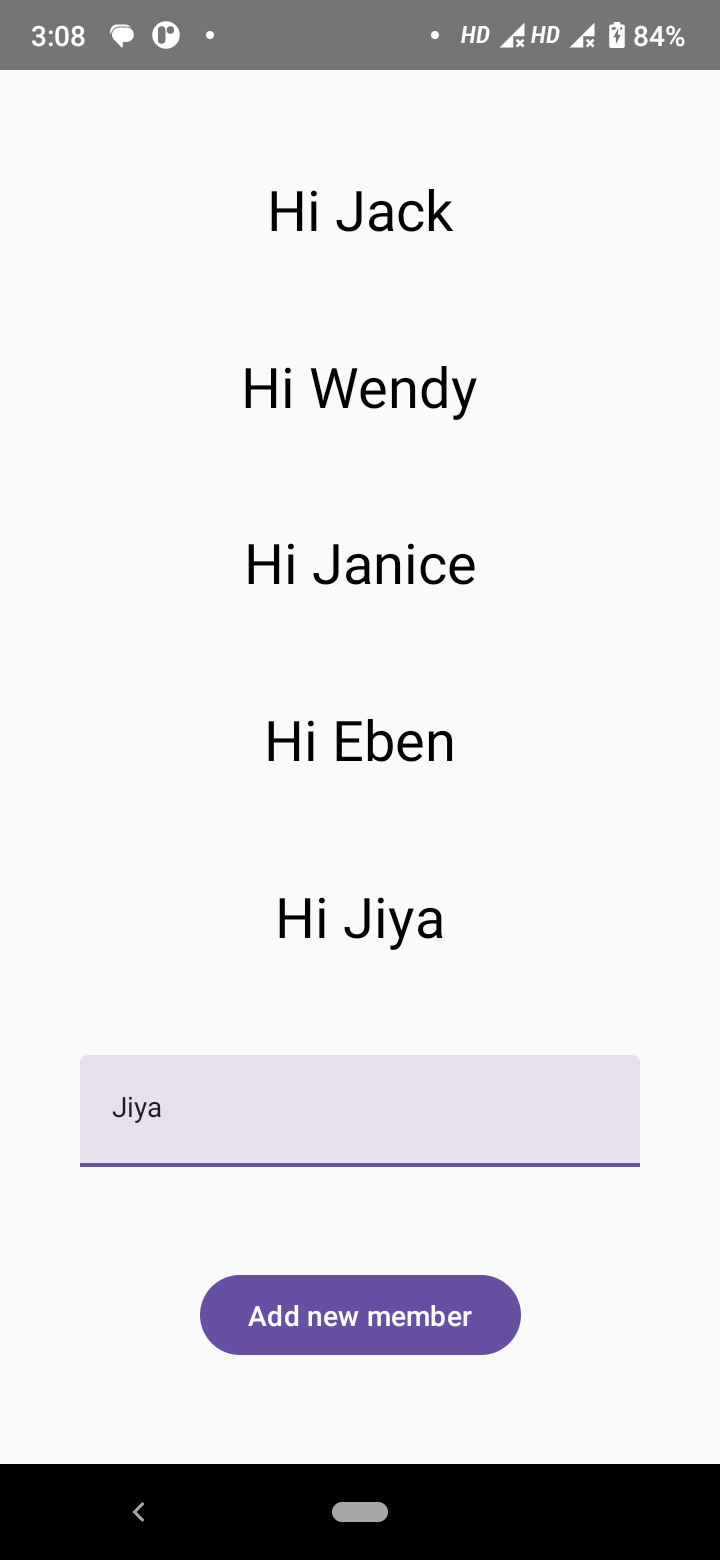
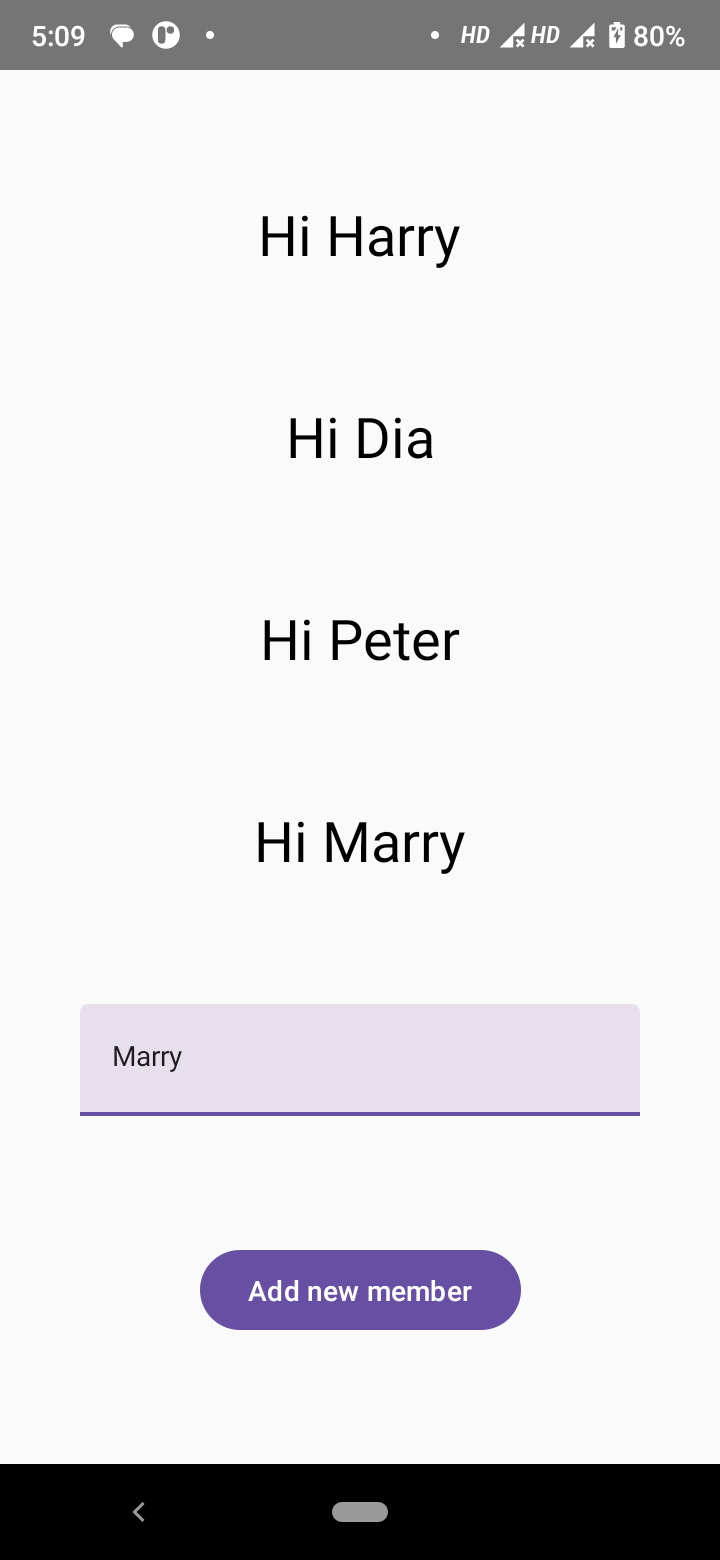
LazyColumn

diff --git a/JetpackComposeApplication/app/src/main/java/com/example/jetpackcomposeapplication/ProfileCardLayoutActivity.kt b/JetpackComposeApplication/app/src/main/java/com/example/jetpackcomposeapplication/ProfileCardLayoutActivity.kt
@@ -14,6 +14,8 @@ import androidx.compose.foundation.layout.fillMaxWidth
 import androidx.compose.foundation.layout.padding
 import androidx.compose.foundation.layout.size
 import androidx.compose.foundation.layout.wrapContentHeight
+import androidx.compose.foundation.lazy.LazyColumn
+import androidx.compose.foundation.lazy.items
 import androidx.compose.foundation.shape.CircleShape
 import androidx.compose.material.icons.Icons
 import androidx.compose.material.icons.filled.Home
@@ -57,12 +59,12 @@ class ProfileCardLayoutActivity : ComponentActivity() {
 fun ProfileCardScreen(userProfiles: List<UserProfile> = userProfileList) {
     Scaffold(topBar = { AppBar() }) { innerPadding ->
         Surface(
-                modifier = Modifier
-                        .fillMaxSize()
-                        .padding(innerPadding)
+            modifier = Modifier
+                .fillMaxSize()
+                .padding(innerPadding)
         ) {
-            Column {
-                for (userProfile in userProfiles) {
+            LazyColumn() {
+                items(userProfiles) { userProfile ->
                     ProfileCard(userProfile = userProfile)
                 }
             }
@@ -74,30 +76,30 @@ fun ProfileCardScreen(userProfiles: List<UserProfile> = userProfileList) {
 @Composable
 fun AppBar() {
     TopAppBar(
-            navigationIcon = {
-                Icon(Icons.Filled.Home, "Home Icon", Modifier.padding(horizontal = 12.dp))
-            },
-            title = { Text(text = "My Contacts") },
-            colors = TopAppBarDefaults.smallTopAppBarColors(containerColor = Color.Cyan)
+        navigationIcon = {
+            Icon(Icons.Filled.Home, "Home Icon", Modifier.padding(horizontal = 12.dp))
+        },
+        title = { Text(text = "My Contacts") },
+        colors = TopAppBarDefaults.smallTopAppBarColors(containerColor = Color.Cyan)
     )
 }
 
 @Composable
 fun ProfileCard(userProfile: UserProfile) {
     Card(
-            modifier = Modifier
-                    .padding(top = 8.dp, bottom = 4.dp, start = 16.dp, end = 16.dp)
-                    .fillMaxWidth()
-                    .wrapContentHeight(align = Alignment.Top)
-                    .shadow(elevation = 8.dp),
-            colors = CardDefaults.cardColors(
-                    containerColor = Color.White
-            )
+        modifier = Modifier
+            .padding(top = 8.dp, bottom = 4.dp, start = 16.dp, end = 16.dp)
+            .fillMaxWidth()
+            .wrapContentHeight(align = Alignment.Top)
+            .shadow(elevation = 8.dp),
+        colors = CardDefaults.cardColors(
+            containerColor = Color.White
+        )
     ) {
         Row(
-                modifier = Modifier.fillMaxWidth(),
-                verticalAlignment = Alignment.CenterVertically,
-                horizontalArrangement = Arrangement.Start
+            modifier = Modifier.fillMaxWidth(),
+            verticalAlignment = Alignment.CenterVertically,
+            horizontalArrangement = Arrangement.Start
         ) {
             ProfilePicture(userProfile.drawableId, userProfile.status)
             ProfileContent(userProfile.name, userProfile.status)
@@ -108,17 +110,20 @@ fun ProfileCard(userProfile: UserProfile) {
 @Composable
 fun ProfilePicture(drawableId: Int, onlineStatus: Boolean) {
     Card(
-            shape = CircleShape,
-            border = BorderStroke(width = 2.dp, color = if (onlineStatus) MaterialTheme.colorScheme.lightGreen else Color.Red),
-            modifier = Modifier
-                    .padding(16.dp)
-                    .shadow(elevation = 4.dp)
+        shape = CircleShape,
+        border = BorderStroke(
+            width = 2.dp,
+            color = if (onlineStatus) MaterialTheme.colorScheme.lightGreen else Color.Red
+        ),
+        modifier = Modifier
+            .padding(16.dp)
+            .shadow(elevation = 4.dp)
     ) {
         Image(
-                painter = painterResource(id = drawableId),
-                contentDescription = "Profile picture",
-                modifier = Modifier.size(80.dp),
-                contentScale = ContentScale.Crop
+            painter = painterResource(id = drawableId),
+            contentDescription = "Profile picture",
+            modifier = Modifier.size(80.dp),
+            contentScale = ContentScale.Crop
         )
     }
 }
@@ -126,19 +131,19 @@ fun ProfilePicture(drawableId: Int, onlineStatus: Boolean) {
 @Composable
 fun ProfileContent(userName: String, onlineStatus: Boolean) {
     Column(
-            modifier = Modifier
-                    .padding(8.dp)
-                    .fillMaxWidth()
+        modifier = Modifier
+            .padding(8.dp)
+            .fillMaxWidth()
     ) {
         Text(
-                text = userName,
-                style = MaterialTheme.typography.headlineSmall,
-                modifier = Modifier.alpha(if (!onlineStatus) 0.7f else 1f)
+            text = userName,
+            style = MaterialTheme.typography.headlineSmall,
+            modifier = Modifier.alpha(if (!onlineStatus) 0.7f else 1f)
         )
         Text(
-                text = if (onlineStatus) "Active Now" else "Offline",
-                style = MaterialTheme.typography.bodyMedium,
-                modifier = Modifier.alpha(0.7f)
+            text = if (onlineStatus) "Active Now" else "Offline",
+            style = MaterialTheme.typography.bodyMedium,
+            modifier = Modifier.alpha(0.7f)
         )
     }
 }

diff --git a/JetpackComposeApplication/app/src/main/java/com/example/jetpackcomposeapplication/UserProfile.kt b/JetpackComposeApplication/app/src/main/java/com/example/jetpackcomposeapplication/UserProfile.kt
@@ -3,11 +3,15 @@ package com.example.jetpackcomposeapplication
 data class UserProfile constructor(val name: String, val status: Boolean, val drawableId: Int)
 
 val userProfileList = arrayListOf(
-        UserProfile(name = "Janice Zhou", status = true, drawableId = R.drawable.ic_profile_picture_1),
-        UserProfile(name = "Mukesh Gupta", status = true, drawableId = R.drawable.ic_profile_picture_2),
-        UserProfile(name = "Luis Peter", status = false, drawableId = R.drawable.ic_profile_picture_3),
-        UserProfile(name = "Selena Gomz", status = true, drawableId = R.drawable.ic_profile_picture_4),
-        UserProfile(name = "Ily Jonas ", status = true, drawableId = R.drawable.ic_profile_picture_5),
-        UserProfile(name = "Harry Fan", status = false, drawableId = R.drawable.ic_profile_picture_6),
-        UserProfile(name = "Dia Loral", status = true, drawableId = R.drawable.ic_profile_picture_7)
+    UserProfile(
+        name = "Rachel Dsouza",
+        status = true,
+        drawableId = R.drawable.ic_profile_picture_1
+    ),
+    UserProfile(name = "Joy Marcel", status = true, drawableId = R.drawable.ic_profile_picture_2),
+    UserProfile(name = "Luis Peter", status = false, drawableId = R.drawable.ic_profile_picture_3),
+    UserProfile(name = "Selena Gomz", status = true, drawableId = R.drawable.ic_profile_picture_4),
+    UserProfile(name = "Ily Jonas ", status = true, drawableId = R.drawable.ic_profile_picture_5),
+    UserProfile(name = "Harry Fan", status = false, drawableId = R.drawable.ic_profile_picture_6),
+    UserProfile(name = "Dia Loral", status = true, drawableId = R.drawable.ic_profile_picture_7)
 )

diff --git a/JetpackComposeApplication/app/src/main/java/com/example/jetpackcomposeapplication/DynamicContentListActivity.kt b/JetpackComposeApplication/app/src/main/java/com/example/jetpackcomposeapplication/DynamicContentListActivity.kt
@@ -31,7 +31,7 @@ class DynamicContentListActivity : ComponentActivity() {
 @Composable
 fun DynamicContentListScreen() {
     val greetingListState =
-        remember { mutableStateListOf<String>("Jack", "Wendy", "Janice", "Eben") }
+        remember { mutableStateListOf<String>("Harry", "Dia", "Peter") }
     val newNameStateContent = remember { mutableStateOf("") }
     Column(
         modifier = Modifier.fillMaxSize(),
